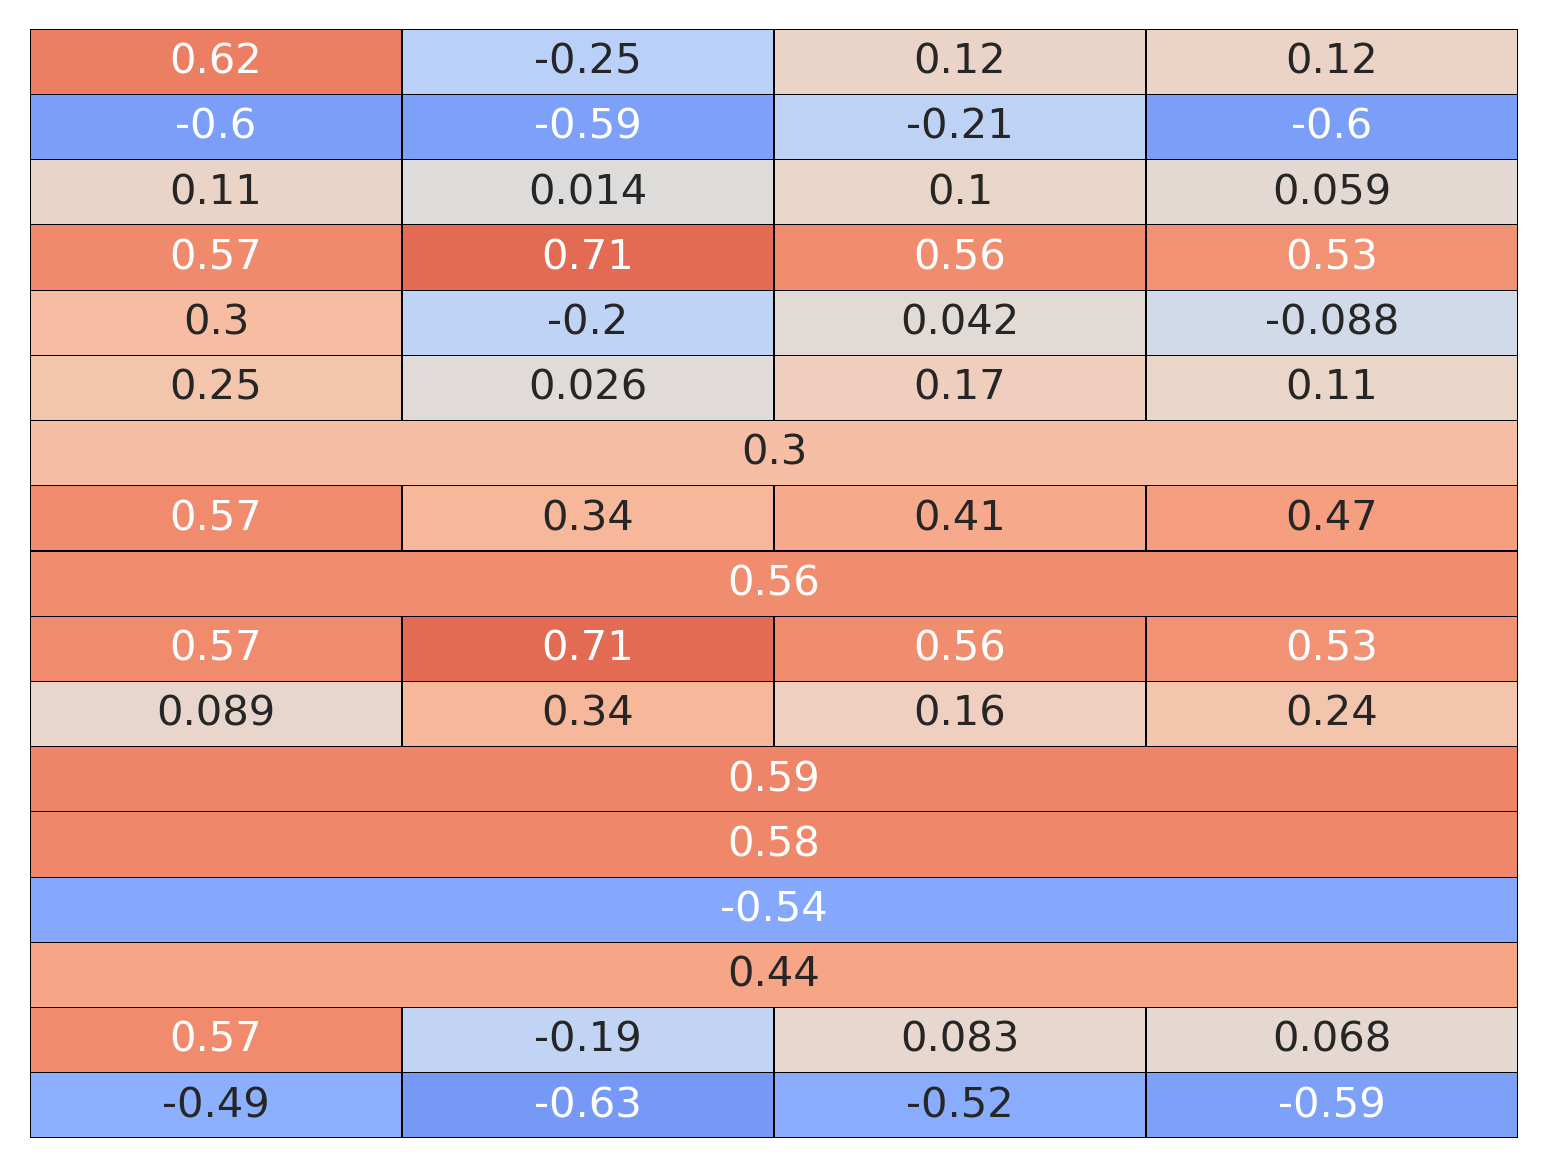
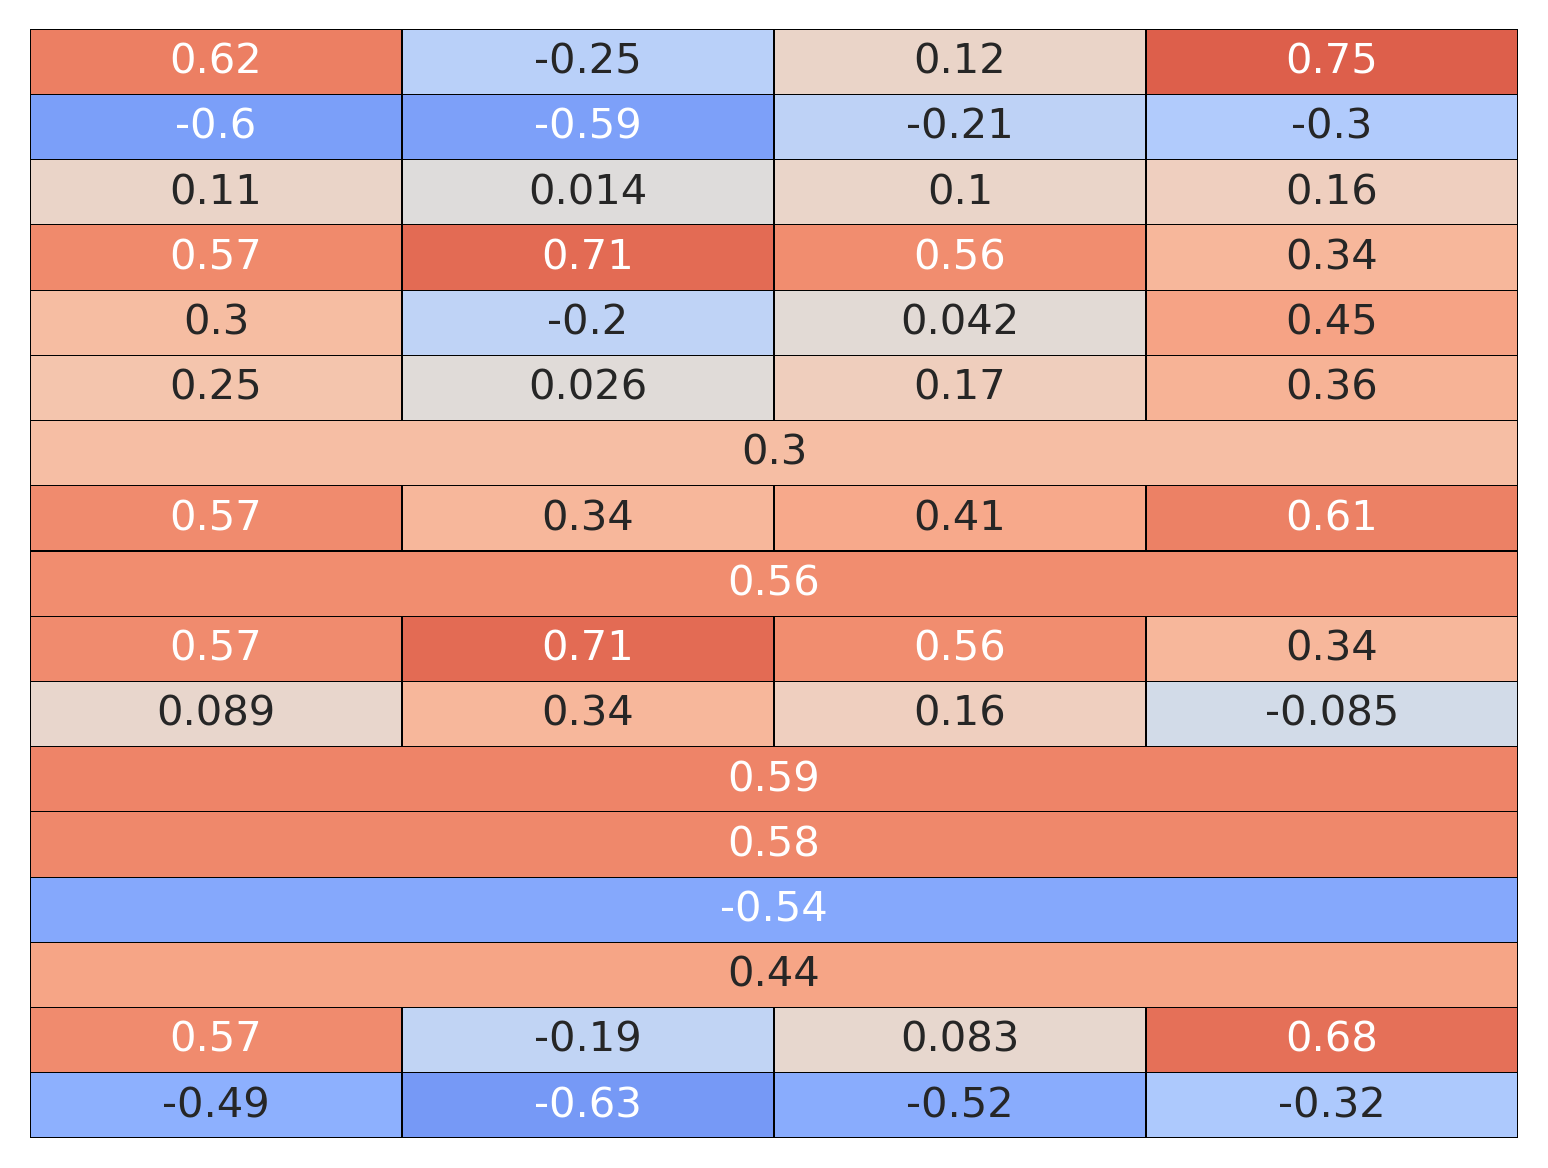
recreate topological feature correlation with area updating due to distance scenario edge weights being changed to distance; change correlation mapper as degree was removed

diff --git a/Code/mainAnalyseOccurrenceAndPerformance.py b/Code/mainAnalyseOccurrenceAndPerformance.py
@@ -102,7 +102,7 @@ def plotAndPrepareMainFigures(resultsFolder="Results/MainFigures/", figuresToDo=
     # Fig. 4 D - concordance between the observed and predicted topologies
     # Fig. 4 E - comparison of obs. vs  pred. harmonic centrality applying div. and topo. prediction models
 
-def plotAndPrepareSuppFigures(resultsFolder="Results/SuppFigures/", figuresToDo=["Fig. 5 A"]):
+def plotAndPrepareSuppFigures(resultsFolder="Results/SuppFigures/", figuresToDo=["Fig. 2"]):
     Path(resultsFolder).mkdir(parents=True, exist_ok=True)
     # Fig. 2 - Pearson corr coeff of topological features vs area
     if figuresToDo == "all" or "Fig. 2" in figuresToDo:

diff --git a/Code/Analysis Tools/CorrelationHeatMapDisplayer.py b/Code/Analysis Tools/CorrelationHeatMapDisplayer.py
@@ -41,7 +41,6 @@ class CorrelationHeatMapDisplayer (object):
             for j in range(nrOfFeatures):
                 correlationMatrix[j, i] = values[idx]
                 idx += 1
-        correlationMatrix = correlationMatrix[1:, :]
         if printHighestCor:
             print(self.columns[np.argmax(np.abs(values))], np.max(values))
         identicalRows = self.identifyIdenticalRows(correlationMatrix)
